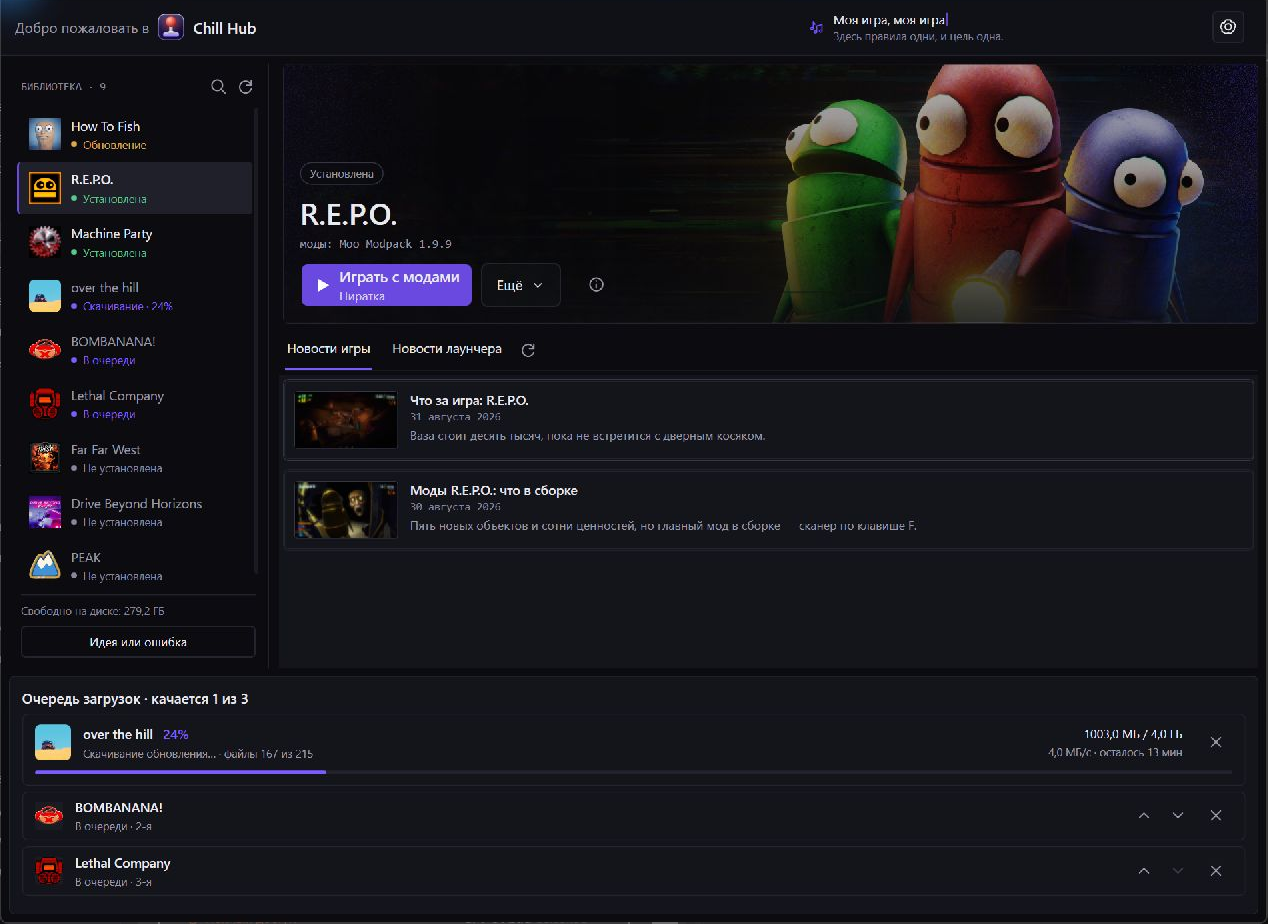
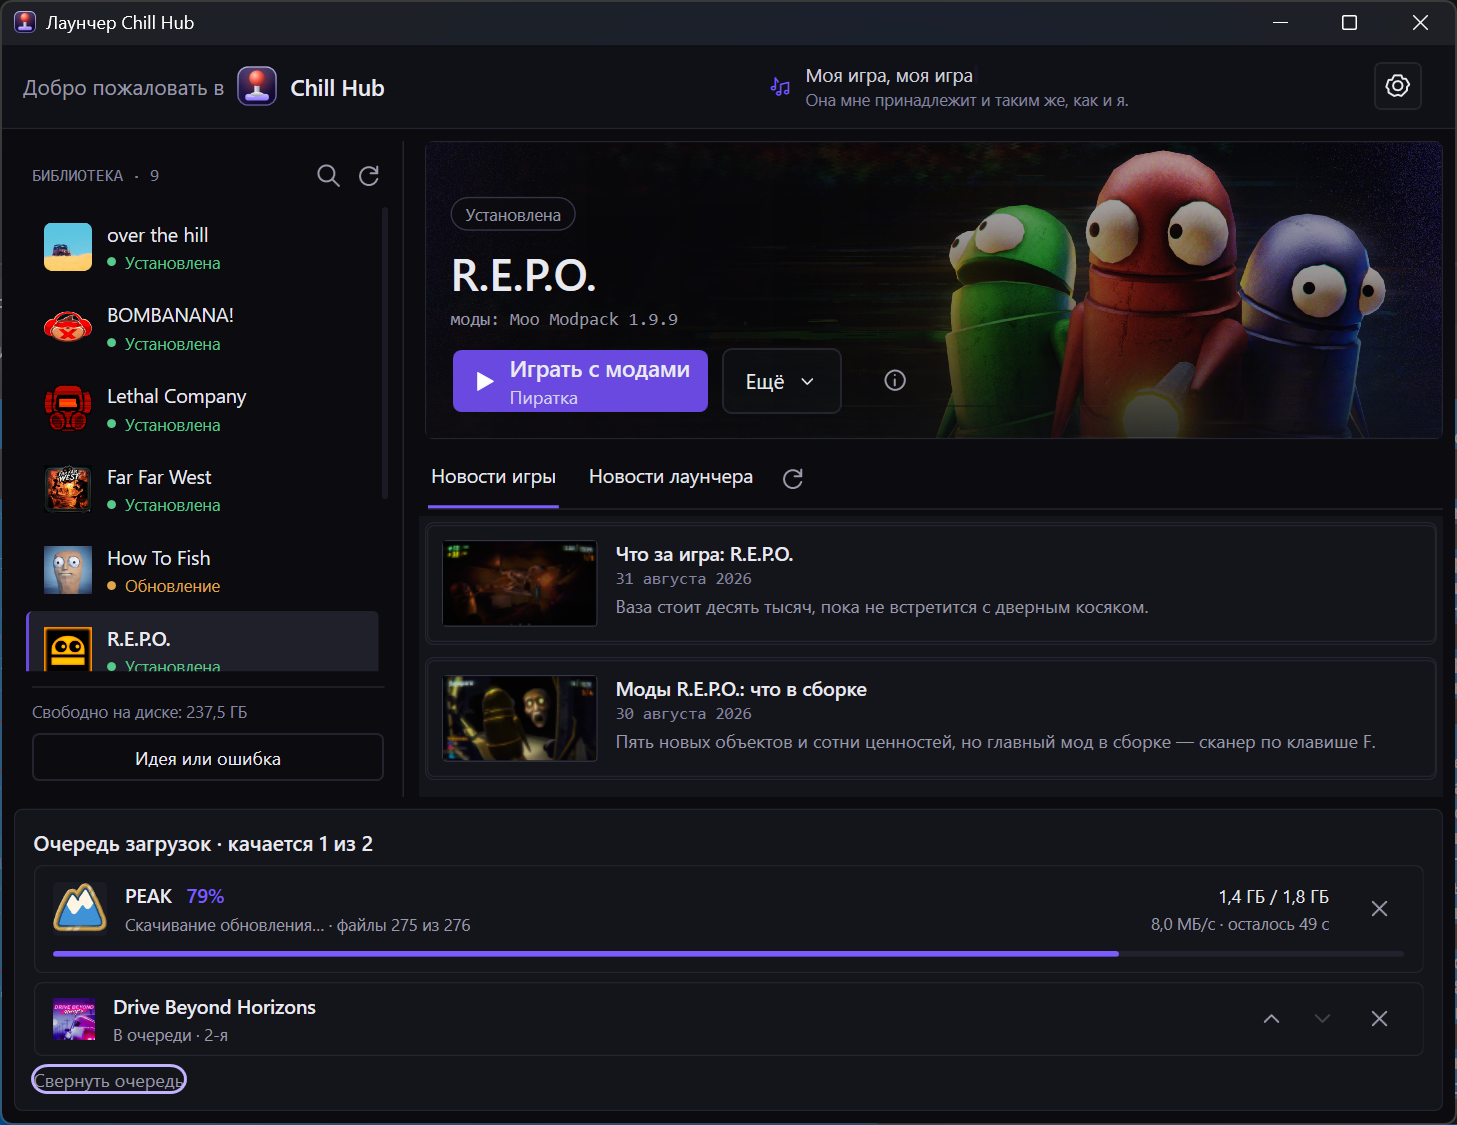
Увеличить детали лаунчера и открывать снимок на весь экран

diff --git a/landing/styles.css b/landing/styles.css
@@ -473,22 +473,108 @@ main { position: relative; z-index: 1; }
 
 /* ---------- Снимок в первом экране ---------- */
 
-/* Снимок — само окно лаунчера, вырезанное по контуру: скруглённые углы и
-   прозрачность вокруг, как оно стоит на рабочем столе. Ни рамки, ни
-   подложки, ни градиента по краю — окно не лежит на странице картинкой под
-   стеклом, а стоит на ней само, целиком, вместе со всем, ради чего его
-   показывают.
-
-   Светлый контур в пиксель запечён в сам снимок — так его рисует Windows.
-   Без него тёмное окно растворялось бы на такой же тёмной странице. Тень
-   мягкая и нейтральная: свечения акцентом здесь нет, как и во всём сайте. */
-.hero-shot { position: relative; }
+/* Целое окно с системной шапкой. На странице — компактное превью,
+   по нажатию — просмотр без обрезки и исходный размер для деталей. */
+.hero-shot {
+  position: relative;
+  display: block;
+  cursor: zoom-in;
+  text-decoration: none;
+}
 
 .hero-shot img {
   display: block;
   width: 100%;
   height: auto;
   filter: drop-shadow(0 24px 48px rgb(0 0 0 / 45%));
+}
+
+.hero-shot-hint {
+  display: block;
+  margin-top: var(--s3);
+  color: var(--fg-2);
+  font-size: 0.875rem;
+  text-align: center;
+}
+
+.hero-shot:hover .hero-shot-hint { color: var(--accent); }
+
+/* Системный захват включает прозрачный край рамки Windows,
+   сквозь который видны окна позади. Он не относится к интерфейсу. */
+.hero-shot img,
+.screenshot-stage img { clip-path: inset(2px round 1%); }
+
+html.screenshot-open { overflow: hidden; }
+
+.screenshot-viewer {
+  position: fixed;
+  inset: 0;
+  width: 100%;
+  max-width: none;
+  height: 100vh;
+  height: 100dvh;
+  max-height: none;
+  margin: 0;
+  padding: 0;
+  border: 0;
+  background: #08080b;
+  color: #e9e9f0;
+}
+
+.screenshot-viewer[open] { display: flex; flex-direction: column; }
+.screenshot-viewer::backdrop { background: #08080b; }
+
+.screenshot-toolbar {
+  display: flex;
+  align-items: center;
+  flex-wrap: wrap;
+  gap: var(--s2);
+  padding: max(8px, env(safe-area-inset-top)) max(14px, env(safe-area-inset-right)) 8px max(14px, env(safe-area-inset-left));
+  border-bottom: 1px solid #35354a;
+}
+
+.screenshot-toolbar span { margin-right: auto; }
+
+.screenshot-toolbar button {
+  min-height: 44px;
+  padding: 8px 14px;
+  border: 1px solid #35354a;
+  border-radius: var(--r);
+  background: #1b1b24;
+  color: inherit;
+  font: inherit;
+  cursor: pointer;
+}
+
+.screenshot-stage {
+  flex: 1;
+  min-height: 0;
+  display: flex;
+  overflow: auto;
+  overscroll-behavior: contain;
+  padding: 12px max(12px, env(safe-area-inset-right)) max(12px, env(safe-area-inset-bottom)) max(12px, env(safe-area-inset-left));
+}
+
+.screenshot-stage img {
+  flex: none;
+  width: auto;
+  height: auto;
+  max-width: 100%;
+  max-height: 100%;
+  object-fit: contain;
+  margin: auto;
+  cursor: zoom-in;
+}
+
+.screenshot-viewer.is-expanded img {
+  max-width: none;
+  max-height: none;
+  cursor: zoom-out;
+}
+
+@media (width < 480px) {
+  .screenshot-toolbar span { width: 100%; font-size: 0.875rem; }
+  .screenshot-toolbar button { flex: 1; }
 }
 
 /* ---------- Рамка скриншота ---------- */

diff --git a/landing/index.html b/landing/index.html
@@ -15,9 +15,9 @@
 <meta property="og:url" content="https://launcher.samoy.love/">
 <meta property="og:title" content="Chill Hub — лаунчер для игры с модами">
 <meta property="og:description" content="Моды ставит лаунчер, вы нажимаете «Играть». Одинаковые сборки у всей компании — значит, вы попадёте в одно лобби.">
-<meta property="og:image" content="https://launcher.samoy.love/assets/images/launcher.png?v=1.7.20-20261101">
-<meta property="og:image:width" content="1268">
-<meta property="og:image:height" content="924">
+<meta property="og:image" content="https://launcher.samoy.love/assets/images/launcher.png?v=1.7.20-20261101-compact">
+<meta property="og:image:width" content="1457">
+<meta property="og:image:height" content="1125">
 <meta property="og:image:alt" content="Главный экран лаунчера Chill Hub: список игр, выбранная игра и очередь загрузок">
 <meta name="twitter:card" content="summary_large_image">
 
@@ -92,13 +92,12 @@
         </ul>
       </div>
 
-      <!-- Снимок — само окно лаунчера, вырезанное по контуру, без рамки и
-           фона вокруг. Подписи нет намеренно — она пересказывала то, что и
-           так видно, и вторым голосом спорила с заголовком слева. -->
-      <div class="hero-shot">
+      <a class="hero-shot" href="./assets/images/launcher.png" data-launcher-preview
+         aria-label="Развернуть скриншот лаунчера" aria-haspopup="dialog">
         <img src="./assets/images/launcher.png" alt="Chill Hub 1.7.20: R.E.P.O., установленные игры, доступное обновление и очередь загрузок"
-             width="1268" height="924" class="skeleton" fetchpriority="high" decoding="async">
-      </div>
+             width="1457" height="1125" class="skeleton" fetchpriority="high" decoding="async">
+        <span class="hero-shot-hint">Развернуть скриншот ↗</span>
+      </a>
     </div>
   </section>
 
@@ -354,6 +353,18 @@
     <p class="faint">© <span data-year>2026</span> Chill Hub. Названия игр принадлежат их правообладателям.</p>
   </div>
 </footer>
+
+<dialog class="screenshot-viewer" aria-labelledby="screenshot-title">
+  <div class="screenshot-toolbar">
+    <span id="screenshot-title">Лаунчер Chill Hub</span>
+    <button type="button" data-screenshot-zoom aria-pressed="false">Исходный размер</button>
+    <button type="button" data-screenshot-close aria-label="Закрыть скриншот" autofocus>Закрыть ×</button>
+  </div>
+  <div class="screenshot-stage" tabindex="0" aria-label="Скриншот лаунчера, область прокрутки">
+    <img data-screenshot-image alt="Окно Chill Hub 1.7.20 на странице R.E.P.O. с очередью загрузок"
+         width="1457" height="1125">
+  </div>
+</dialog>
 
 <script src="./api.js"></script>
 <script src="./app.js" defer></script>

diff --git a/landing/app.js b/landing/app.js
@@ -685,6 +685,45 @@
 
   /* ---------- Мелочи ---------- */
 
+  function screenshotViewer() {
+    const trigger = $('[data-launcher-preview]');
+    const dialog = $('.screenshot-viewer');
+    if (!trigger || !dialog || typeof dialog.showModal !== 'function') return;
+    const stage = $('.screenshot-stage', dialog);
+    const image = $('[data-screenshot-image]', dialog);
+    const zoom = $('[data-screenshot-zoom]', dialog);
+    let backdropPress = false;
+
+    const setZoom = (expanded) => {
+      dialog.classList.toggle('is-expanded', expanded);
+      zoom.setAttribute('aria-pressed', String(expanded));
+      zoom.textContent = expanded ? 'Вместить в экран' : 'Исходный размер';
+      stage.scrollTop = 0;
+      stage.scrollLeft = 0;
+    };
+    trigger.addEventListener('click', (event) => {
+      if (event.ctrlKey || event.metaKey || event.shiftKey || event.altKey) return;
+      event.preventDefault();
+      image.src = $('img', trigger).currentSrc || $('img', trigger).src;
+      setZoom(false);
+      dialog.showModal();
+      document.documentElement.classList.add('screenshot-open');
+    });
+    zoom.addEventListener('click', () => setZoom(!dialog.classList.contains('is-expanded')));
+    image.addEventListener('click', () => setZoom(!dialog.classList.contains('is-expanded')));
+    $('[data-screenshot-close]', dialog).addEventListener('click', () => dialog.close());
+    stage.addEventListener('pointerdown', (event) => { backdropPress = event.target === stage; });
+    stage.addEventListener('click', (event) => {
+      if (backdropPress && event.target === stage) dialog.close();
+      backdropPress = false;
+    });
+    dialog.addEventListener('close', () => {
+      document.documentElement.classList.remove('screenshot-open');
+      setZoom(false);
+      trigger.focus({ preventScroll: true });
+    });
+  }
+
   function skeletons() {
     $$('img.skeleton').forEach((img) => {
       const done = () => img.classList.add('loaded');
@@ -749,6 +788,7 @@
   slots();
   wish();
   skeletons();
+  screenshotViewer();
   imageFallback();
   copyHash();
   year();
